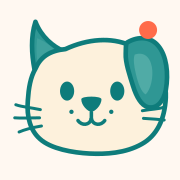
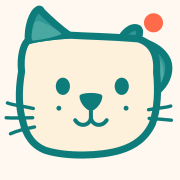
Make Pip's head an exact trace of the reference mark
The redraw was close but the cat ear did not join the head cleanly (a
sliver/gap plus a separate floating ear interior) and the outline was
thinner than the reference's thick, round-capped stroke.

Re-vectorised from web/public/brand/pawtella-mascot-original.png: extracted
the teal/cream/coral masks, traced the outer silhouette and the cream-face
contour, and measured the outline band (~23px) directly from the bitmap, then
cleaned the result into tidy beziers and iterated by overlaying the render on
the original at 50% until edges aligned within a few pixels.

Geometry fixes:
- The head is one rounded blob and the cat ear is a separate path whose base
  edge is the exact reverse of the head's top-left shoulder, so the two thick
  strokes coincide: the ear joins seamlessly at rest yet stays its own group so
  a pose can still tilt it. No more sliver or detached interior.
- Outline stroke raised to the measured ~23px round-capped weight.
- Ear shapes, eyes, nose, cat "‿‿" mouth, whiskers, freckles and the coral dot
  repositioned to the traced coordinates.

Colours keep the reference's teal/cream/coral relationship, which already maps
to the palette tokens. The Mascot API, six poses and idle motion are unchanged;
poses still vary only eyes/mouth/ear-tilt/props on this one face.

Regenerated the derived raster assets from the same vector: icon.png (512),
apple-icon.png (180), favicon.ico (16/32/48) on the cream tile, and the
[…]

diff --git a/web/src/components/mascot.tsx b/web/src/components/mascot.tsx
@@ -7,6 +7,12 @@ import { cn } from "@/lib/utils";
  * (right), simple oval eyes, a rounded nose, a cat "‿‿" smile, whiskers, freckles and a small
  * coral dot by the dog ear.
  *
+ * Geometry is traced from the reference bitmap (1024px space) so the component shares that mark's
+ * coordinates. The head is a single rounded blob; the cat ear is a separate path whose base edge is
+ * the exact reverse of the head's top-left shoulder, so the two thick strokes coincide and the ear
+ * joins the head with no seam — while still being its own group so a pose can tilt it. The folded
+ * dog ear sits behind the head and pokes out to the right.
+ *
  * `variant="full"` frames the whole face with room for a pose's small props (a waving paw, thought
  * dots, "z z z", sparkles, a tear) — used at hero / empty / loading / success / error moments.
  * `variant="mark"` is the tight head used in the logo lockup and app icons.
@@ -36,6 +42,32 @@ const CREAM = "#fdf1dc";
 const CORAL = "#ff6b4a";
 const CORAL_SOFT = "#ffd9cf";
 
+/** Thick, round-capped outline — measured ~23px in the 1024px reference space. */
+const STROKE = 23;
+
+// Head blob (no ear): the top-left runs as a smooth shoulder from (304,250) to (436,232).
+const HEAD_PATH =
+  "M304,250 C330,242 392,234 436,232 C500,236 560,236 660,244 C708,258 724,300 720,352 " +
+  "C726,410 724,472 706,520 C684,566 648,592 600,606 C540,624 430,628 360,606 " +
+  "C318,590 296,556 286,512 C274,470 270,420 282,350 C276,300 290,256 304,250 Z";
+// Cat ear — its base edge (436,232)→(304,250) is the exact reverse of the head shoulder, so the
+// two strokes coincide and the join is seamless.
+const CAT_EAR_PATH =
+  "M304,250 C300,206 318,158 334,150 C340,145 344,148 348,156 C374,182 410,214 436,232 " +
+  "C392,234 330,242 304,250 Z";
+const CAT_EAR_HI_PATH =
+  "M322,196 C314,224 312,244 318,250 C354,246 392,238 412,228 C388,206 352,190 336,186 " +
+  "C330,185 326,188 322,196 Z";
+// Folded dog ear (behind head): a small fold-nub top-left, a leaf bulging right, pointed at bottom.
+const DOG_EAR_PATH =
+  "M606,240 C624,212 646,202 660,210 C668,216 666,232 656,248 C700,258 740,278 756,316 " +
+  "C766,344 756,380 732,404 C712,426 698,442 688,450 C676,436 666,406 658,366 " +
+  "C650,328 644,286 632,262 C622,248 600,252 606,240 Z";
+const DOG_EAR_HI_PATH =
+  "M664,266 C698,274 730,298 740,332 C748,360 738,392 718,408 C702,394 688,360 680,320 " +
+  "C672,288 662,272 664,266 Z";
+const NOSE_PATH = "M470,430 C470,416 544,416 544,430 C544,454 519,478 507,478 C495,478 470,454 470,430 Z";
+
 const OPEN_EYE_POSES: ReadonlySet<PipPose> = new Set<PipPose>(["happy", "wave", "thinking"]);
 
 export function Mascot({
@@ -53,7 +85,7 @@ export function Mascot({
 
   return (
     <svg
-      viewBox={isMark ? "212 140 576 516" : "96 104 812 740"}
+      viewBox={isMark ? "224 128 544 540" : "96 104 812 740"}
       className={cn("block h-auto w-24 overflow-visible", float && animate && "pip-float", className)}
       role={labelled ? "img" : undefined}
       aria-hidden={labelled ? undefined : true}
@@ -69,32 +101,18 @@ export function Mascot({
 function PipFace({ pose, animate }: { pose: PipPose; animate: boolean }) {
   return (
     <>
-      <CatEar pose={pose} animate={animate} />
+      {/* Folded dog ear (right), drawn behind the head so it only pokes out to the side */}
+      <path d={DOG_EAR_PATH} fill={EAR} stroke={DEEP} strokeWidth={STROKE} strokeLinejoin="round" />
+      <path d={DOG_EAR_HI_PATH} fill={EAR_HI2} />
 
       {/* Face blob */}
-      <path
-        d="M410,250 C492,212 578,206 646,236 C720,266 782,338 778,428 C774,510 744,568 690,598 C630,632 558,636 498,633 C438,630 356,616 316,579 C282,549 267,500 272,439 C275,392 282,352 300,322 C318,280 350,256 410,250 Z"
-        fill={CREAM}
-        stroke={DEEP}
-        strokeWidth={17}
-        strokeLinejoin="round"
-      />
+      <path d={HEAD_PATH} fill={CREAM} stroke={DEEP} strokeWidth={STROKE} strokeLinejoin="round" />
 
-      {/* Dog ear (right, folded) */}
-      <path
-        d="M636,226 C678,201 724,205 751,239 C780,274 789,338 778,400 C769,444 744,470 713,463 C688,457 670,424 658,386 C646,348 629,298 631,266 C632,248 630,234 636,226 Z"
-        fill={EAR}
-        stroke={DEEP}
-        strokeWidth={17}
-        strokeLinejoin="round"
-      />
-      <path
-        d="M664,270 C694,260 719,274 727,316 C733,352 723,398 704,416 C689,409 676,376 668,340 C661,310 658,286 664,270 Z"
-        fill={EAR_HI2}
-      />
+      {/* Pointy cat ear (left) — seamless with the head, tiltable for poses */}
+      <CatEar pose={pose} animate={animate} />
 
       {/* Coral dot */}
-      <circle cx={713} cy={180} r={33} fill={CORAL} />
+      <circle cx={710} cy={192} r={31} fill={CORAL} />
 
       {/* Eyes */}
       <g className={animate && OPEN_EYE_POSES.has(pose) ? "pip-eyes" : undefined}>
@@ -102,24 +120,24 @@ function PipFace({ pose, animate }: { pose: PipPose; animate: boolean }) {
       </g>
 
       {/* Nose */}
-      <path d="M468,434 C468,421 542,421 542,434 C542,457 517,480 505,480 C493,480 468,457 468,434 Z" fill={DEEP} />
+      <path d={NOSE_PATH} fill={DEEP} />
 
       {/* Mouth */}
       <Mouth pose={pose} />
 
       {/* Whiskers */}
       <g fill="none" stroke={DEEP} strokeWidth={11} strokeLinecap="round">
-        <path d="M318,472 C280,464 250,462 228,454" />
-        <path d="M315,502 C276,502 246,504 224,502" />
-        <path d="M322,532 C286,538 258,546 240,554" />
-        <path d="M692,476 C726,470 750,470 768,464" />
-        <path d="M696,504 C730,506 754,508 772,510" />
+        <path d="M320,470 C286,462 258,460 236,452" />
+        <path d="M318,500 C282,500 254,502 232,500" />
+        <path d="M324,530 C290,536 264,544 246,552" />
+        <path d="M694,474 C724,468 748,468 766,462" />
+        <path d="M696,502 C726,504 750,506 768,508" />
       </g>
 
       {/* Freckles */}
       <g fill={DEEP}>
-        <circle cx={432} cy={480} r={8} />
-        <circle cx={578} cy={480} r={8} />
+        <circle cx={403} cy={469} r={8} />
+        <circle cx={621} cy={469} r={8} />
       </g>
     </>
   );
@@ -128,20 +146,10 @@ function PipFace({ pose, animate }: { pose: PipPose; animate: boolean }) {
 function CatEar({ pose, animate }: { pose: PipPose; animate: boolean }) {
   const tilt = pose === "celebrating" ? -7 : pose === "wave" ? -4 : pose === "sad" ? 9 : 0;
   return (
-    <g transform={tilt ? `rotate(${tilt} 330 312)` : undefined}>
+    <g transform={tilt ? `rotate(${tilt} 370 246)` : undefined}>
       <g className={animate ? "pip-ear" : undefined}>
-        <path
-          d="M296,322 C286,268 282,206 300,150 C322,206 364,240 404,258 C372,300 330,320 296,322 Z"
-          fill={EAR}
-          stroke={DEEP}
-          strokeWidth={17}
-          strokeLinejoin="round"
-        />
-        <path
-          d="M306,210 C302,254 304,294 312,314 C342,310 368,294 384,266 C360,240 334,222 306,210 Z"
-          fill={EAR_HI}
-          opacity={0.6}
-        />
+        <path d={CAT_EAR_PATH} fill={EAR} stroke={DEEP} strokeWidth={STROKE} strokeLinejoin="round" />
+        <path d={CAT_EAR_HI_PATH} fill={EAR_HI} />
       </g>
     </g>
   );
@@ -151,16 +159,16 @@ function Eyes({ pose }: { pose: PipPose }) {
   if (pose === "sleeping") {
     return (
       <g fill="none" stroke={DEEP} strokeWidth={14} strokeLinecap="round">
-        <path d="M388,406 Q416,430 444,406" />
-        <path d="M572,406 Q600,430 628,406" />
+        <path d="M388,400 Q416,424 444,400" />
+        <path d="M579,400 Q607,424 635,400" />
       </g>
     );
   }
   if (pose === "celebrating") {
     return (
       <g fill="none" stroke={DEEP} strokeWidth={15} strokeLinecap="round">
-        <path d="M388,410 Q416,382 444,410" />
-        <path d="M572,410 Q600,382 628,410" />
+        <path d="M388,404 Q416,376 444,404" />
+        <path d="M579,404 Q607,376 635,404" />
       </g>
     );
   }
@@ -168,22 +176,22 @@ function Eyes({ pose }: { pose: PipPose }) {
     return (
       <>
         <g fill={DEEP}>
-          <ellipse cx={416} cy={412} rx={24} ry={30} />
-          <ellipse cx={600} cy={412} rx={24} ry={30} />
+          <ellipse cx={416} cy={406} rx={22} ry={28} />
+          <ellipse cx={607} cy={406} rx={22} ry={28} />
         </g>
         <g fill="none" stroke={DEEP} strokeWidth={13} strokeLinecap="round">
-          <path d="M386,372 Q410,366 432,378" />
-          <path d="M618,372 Q594,366 572,378" />
+          <path d="M386,366 Q410,360 432,372" />
+          <path d="M625,366 Q601,360 579,372" />
         </g>
       </>
     );
   }
   // open eyes (happy, wave, thinking) — thinking glances up a touch
-  const cy = pose === "thinking" ? 398 : 404;
+  const cy = pose === "thinking" ? 392 : 398;
   return (
     <g fill={DEEP}>
-      <ellipse cx={416} cy={cy} rx={26} ry={35} />
-      <ellipse cx={600} cy={cy} rx={26} ry={35} />
+      <ellipse cx={416} cy={cy} rx={23} ry={28} />
+      <ellipse cx={607} cy={cy} rx={23} ry={28} />
     </g>
   );
 }
@@ -192,41 +200,41 @@ function Mouth({ pose }: { pose: PipPose }) {
   if (pose === "sad") {
     return (
       <g fill="none" stroke={DEEP} strokeWidth={13} strokeLinecap="round" strokeLinejoin="round">
-        <path d="M505,480 L505,500" />
-        <path d="M470,524 Q505,500 540,524" />
+        <path d="M507,478 L507,500" />
+        <path d="M472,524 Q507,500 542,524" />
       </g>
     );
   }
   if (pose === "sleeping") {
     return (
       <g fill="none" stroke={DEEP} strokeWidth={12} strokeLinecap="round" strokeLinejoin="round">
-        <path d="M505,484 L505,502" />
-        <path d="M486,506 Q505,520 524,506" />
+        <path d="M507,480 L507,500" />
+        <path d="M488,504 Q507,518 526,504" />
       </g>
     );
   }
   if (pose === "celebrating") {
     return (
       <g stroke={DEEP} strokeWidth={13} strokeLinecap="round" strokeLinejoin="round">
-        <path d="M505,480 L505,498" fill="none" />
-        <path d="M466,500 Q505,556 544,500 Q505,516 466,500 Z" fill={DEEP} />
+        <path d="M507,478 L507,496" fill="none" />
+        <path d="M468,498 Q507,554 546,498 Q507,514 468,498 Z" fill={DEEP} />
       </g>
     );
   }
   if (pose === "thinking") {
     return (
       <g fill="none" stroke={DEEP} strokeWidth={13} strokeLinecap="round" strokeLinejoin="round">
-        <path d="M505,482 L505,506" />
-        <path d="M486,510 Q505,524 524,510" />
+        <path d="M507,478 L507,504" />
+        <path d="M488,508 Q507,522 526,508" />
       </g>
     );
   }
   // happy / wave — cat smile
   return (
     <g fill="none" stroke={DEEP} strokeWidth={13} strokeLinecap="round" strokeLinejoin="round">
-      <path d="M505,482 L505,506" />
-      <path d="M505,506 C498,530 470,532 456,512" />
-      <path d="M505,506 C512,530 540,532 554,512" />
+      <path d="M507,478 L507,502" />
+      <path d="M507,502 C500,528 470,530 456,508" />
+      <path d="M507,502 C514,528 544,530 558,508" />
     </g>
   );
 }
